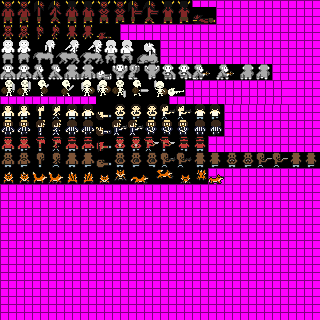
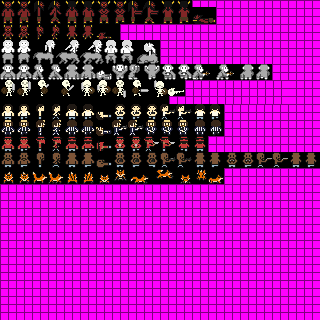
Sprite Fixes
Fixed Skeletons, Evilfox, and cow

BUG: There is a weird crash when occasionally an entity in the level becomes null. I need to look into this further because it is game breaking.

Changed region(s): [[0.0, 0.2812, 0.3125, 0.3438], [0.625, 0.5, 0.7188, 0.5938]]

diff --git a/src/javajesus/entities/monsters/EvilFox.java b/src/javajesus/entities/monsters/EvilFox.java
@@ -92,43 +92,68 @@ public class EvilFox extends Monster {
 
 		// adjust spritesheet offsets
 		if (getDirection() == Direction.NORTH) {
-			xTile = 10;
+			xTile = 8 + (isMoving ? 2 : 0);
+			if (isShooting) {
+				xTile = 22 + (flipAttack ? 2 : 0);
+			}
 		} else if (getDirection() == Direction.SOUTH) {
-			xTile = 2;
+			xTile = 0 + (isMoving ? 2 : 0);
+			if (isShooting) {
+				xTile = 12 + (flipAttack ? 2 : 0);
+			}
 		} else {
 			xTile = 4 + (flip ? 2 : 0);
-			flip = getDirection() == Direction.WEST;
-		}
-
-		// attacking animation
-		if (isShooting) {
-			if (getDirection() == Direction.NORTH) {
-				xTile = 18;
-			} else if (getDirection() == Direction.SOUTH) {
-				xTile = 14;
-			} else {
-				xTile = 16;
+			if (isShooting) {
+				xTile = 16 + (flipAttack ? 3 : 0);
 			}
+			flip = getDirection() == Direction.WEST;
 		}
 
 		// death image
 		if (isDead())
-			xTile = 12;
+			xTile = 26;
+		
+		// requires width of 3
+		if (isShooting && isLatitudinal()) {
+			
+			// move x offset over if west
+			if (getDirection() == Direction.WEST) {
+				xOffset -= 8;
+			}
+			
+			// iterate top to bottom
+			for (int i = 0; i < 2; i++) {
+				
+				// Left body
+				screen.render(xOffset + (modifier * (flip ? 2 : 0)), yOffset + i * modifier, xTile, yTile + i, getSpriteSheet(), flip, color);
+				
+				// Middle body
+				screen.render(xOffset + modifier, yOffset + i * modifier, xTile + 1, yTile + i, getSpriteSheet(), flip, color);
+				
+				// Right body
+				screen.render(xOffset + (modifier * 2) - (modifier * (flip ? 2 : 0)), yOffset + i * modifier, xTile + 2, yTile + i, getSpriteSheet(), flip, color);
+				
+			}
+			
+		} else {
+			
+			// Upper body
+			screen.render(xOffset + (modifier * (flip ? 1 : 0)), yOffset, xTile, yTile, getSpriteSheet(), flip, color);
 
-		// Upper body
-		screen.render(xOffset + (modifier * (flip ? 1 : 0)), yOffset, xTile, yTile, getSpriteSheet(), flip, color);
+			// Upper body
+			screen.render(xOffset + modifier - (modifier * (flip ? 1 : 0)), yOffset, xTile + 1, yTile, getSpriteSheet(),
+			        flip, color);
 
-		// Upper body
-		screen.render(xOffset + modifier - (modifier * (flip ? 1 : 0)), yOffset, xTile + 1, yTile, getSpriteSheet(),
-		        flip, color);
+			// Lower Body
+			screen.render(xOffset + (modifier * (flip ? 1 : 0)), yOffset + modifier, xTile, yTile + 1, getSpriteSheet(),
+			        flip, color);
 
-		// Lower Body
-		screen.render(xOffset + (modifier * (flip ? 1 : 0)), yOffset + modifier, xTile, yTile + 1, getSpriteSheet(),
-		        flip, color);
+			// Lower Body
+			screen.render(xOffset + modifier - (modifier * (flip ? 1 : 0)), yOffset + modifier, xTile + 1, yTile + 1,
+			        getSpriteSheet(), flip, color);
+			
+		}
 
-		// Lower Body
-		screen.render(xOffset + modifier - (modifier * (flip ? 1 : 0)), yOffset + modifier, xTile + 1, yTile + 1,
-		        getSpriteSheet(), flip, color);
 	}
 
 	/**

diff --git a/src/javajesus/entities/monsters/Skeleton.java b/src/javajesus/entities/monsters/Skeleton.java
@@ -58,37 +58,24 @@ public class Skeleton extends Monster {
 		// adjust spritesheet offsets
 		if (getDirection() == Direction.NORTH) {
 			if (isShooting) {
-				xTile = 22;
-				if (flipAttack) {
-					xTile = 31;
-				} else if (isMoving){
-					xTile = 24;
-				}
+				xTile = 19;
 			} else {
-				xTile = 8 + (isMoving ? 2 : 0);
+				xTile = 10 + (isMoving ? 2 : 0);
 			}
 			
 		} else if (getDirection() == Direction.SOUTH) {
 			
 			if (isShooting) {
-				xTile = 12;
-				if (flipAttack) {
-					xTile = 26;
-				} else if (isMoving){
-					xTile = 14;
-				}
+				xTile = 14;
 			} else {
 				xTile = isMoving ? 2 : 0;
 			}
 			
 		} else {
-			xTile = 4 + (flip ? 2 : 0);
+			xTile = 4 + (flip ? 3 : 0);
 			
 			if (isShooting) {
-				xTile = 16 + (isMoving ? 3 : 0);
-				if (flipAttack) {
-					xTile = 28;
-				}
+				xTile = 16;
 			}
 			
 			flip = getDirection() == Direction.WEST;
@@ -96,10 +83,10 @@ public class Skeleton extends Monster {
 		
 		// death image
 		if (isDead())
-			xTile = 33;
+			xTile = 21;
 		
 		// base 2x2 quadrant y-axis symmetry 
-		if (!isShooting || isLongitudinal()) {
+		if (isLongitudinal() || isDead()) {
 
 			// Upper body
 			screen.render(xOffset + (modifier * (flip ? 1 : 0)), yOffset, xTile, yTile, getSpriteSheet(), flip, color);
@@ -127,7 +114,7 @@ public class Skeleton extends Monster {
 			// Lower sword
 			screen.render(xOffset + modifier - (modifier * (flip ? 1 : 0)), yOffset + 2 * modifier, xTile + 1, yTile + 2,
 			        getSpriteSheet(), flip, color);
-		} else if (isShooting && isLatitudinal()) {
+		} else if (isLatitudinal() && !isDead()) {
 			
 			// move x offset over if west
 			if (getDirection() == Direction.WEST) {

diff --git a/src/javajesus/entities/animals/Cow.java b/src/javajesus/entities/animals/Cow.java
@@ -59,16 +59,17 @@ public class Cow extends Animal {
 
 		// adjust spritesheet offsets
 		if (getDirection() == Direction.NORTH) {
-			xTile += 10;
+			xTile += 13;
 			if (isMoving)
 				xTile += 2;
 		} else if (getDirection() == Direction.SOUTH) {
 			if (isMoving)
-				xTile += 2;
+				xTile = 2;
 		} else if (isLatitudinal()) {
 			xTile += 4;
-			if (isMoving)
-				xTile += (flip ? 3 : 0);
+			if (isMoving) {
+				xTile = 7 + (flip ? 3 : 0);
+			}
 			flip = getDirection() == Direction.WEST;
 		}
 
@@ -77,7 +78,7 @@ public class Cow extends Animal {
 			if (isLongitudinal()) {
 				setDirection(Direction.EAST);
 			}
-			xTile = 14;
+			xTile = 17;
 		}
 
 		// standing vertical

diff --git a/src/javajesus/level/Level.java b/src/javajesus/level/Level.java
@@ -415,6 +415,10 @@ public abstract class Level {
 	 * @param entity - the entity to add
 	 */
 	public synchronized void add(Entity entity) {
+		
+		if (entity == null) {
+			System.err.println("ERROR ADDING NULL ENTITY!");
+		}
 
 		if (entity instanceof Mob) {
 			mobs.add((Mob) entity);

diff --git a/src/javajesus/entities/monsters/Monster.java b/src/javajesus/entities/monsters/Monster.java
@@ -256,6 +256,9 @@ public abstract class Monster extends Mob {
 	public void remove() {
 		super.remove();
 		
+		// reset data
+		flipAttack = false;
+		
 		// drop loot on death
 		dropLoot();
 		
